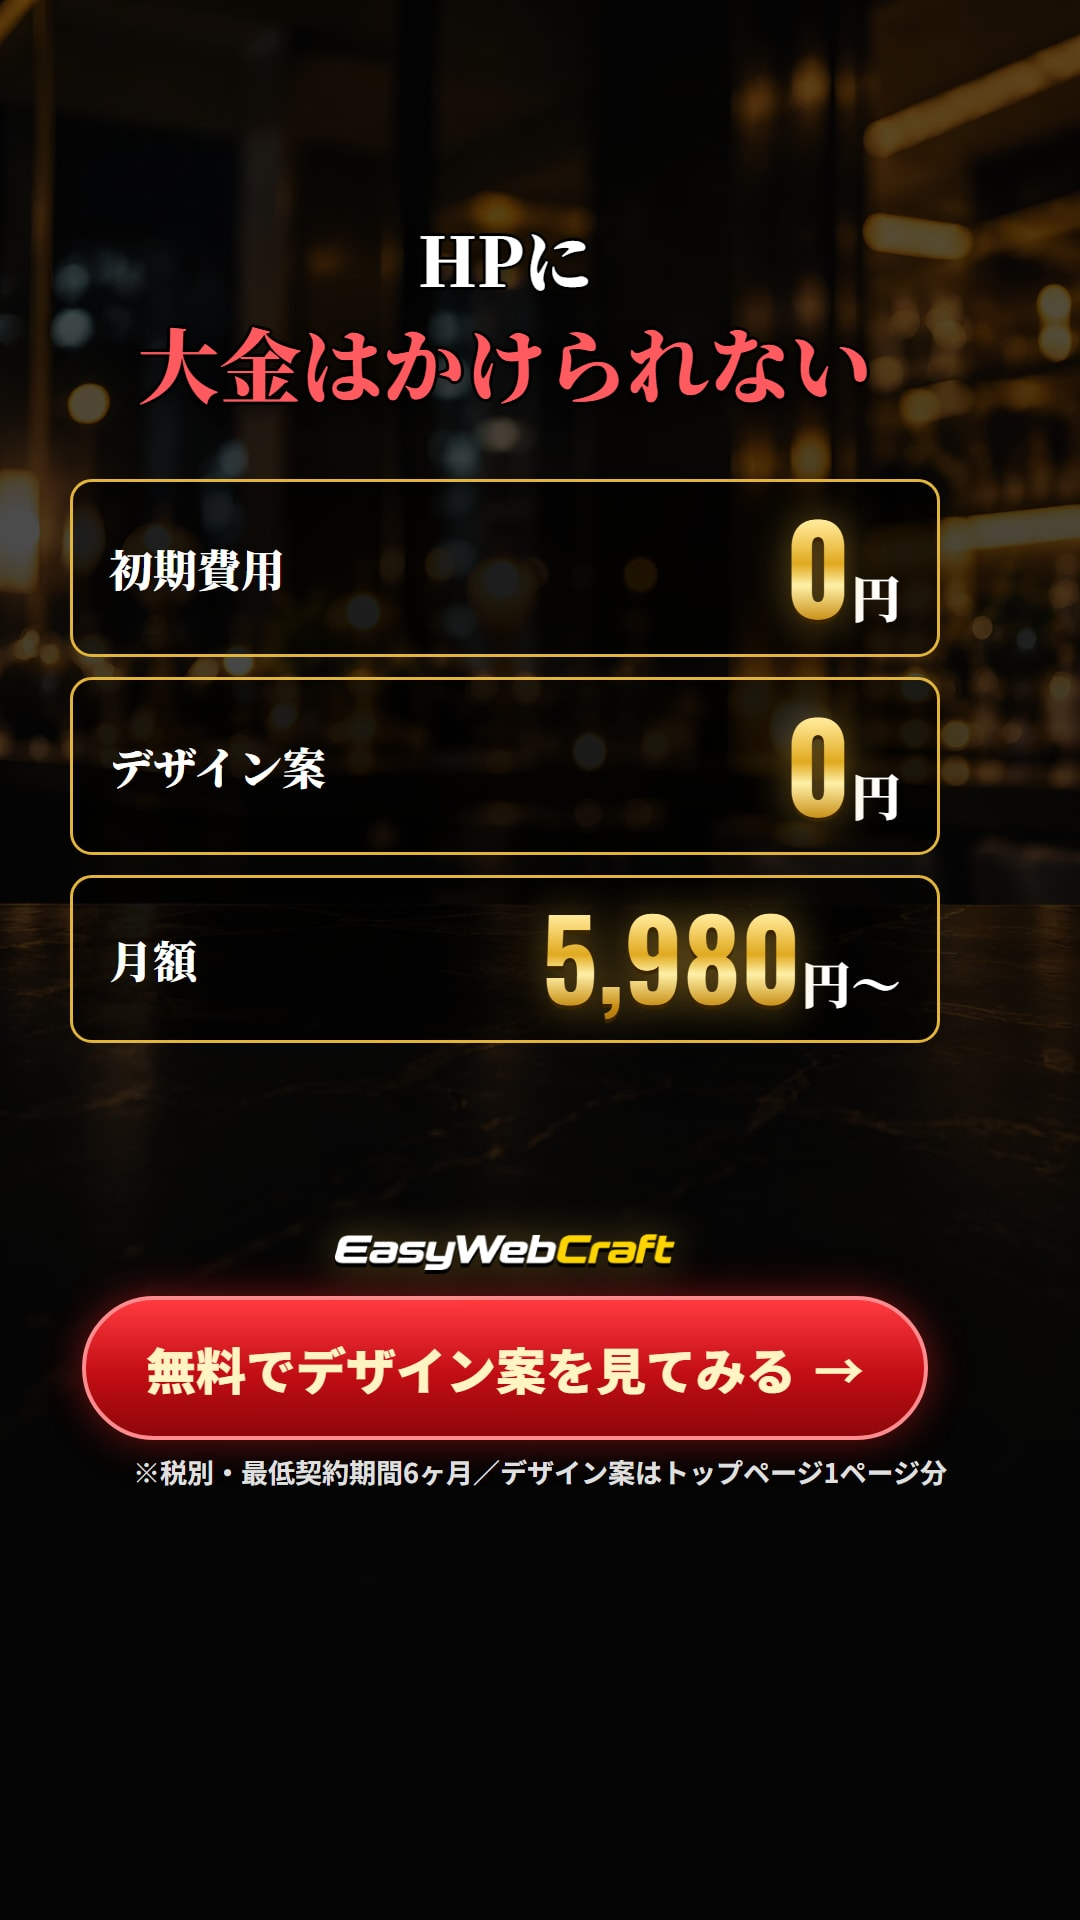
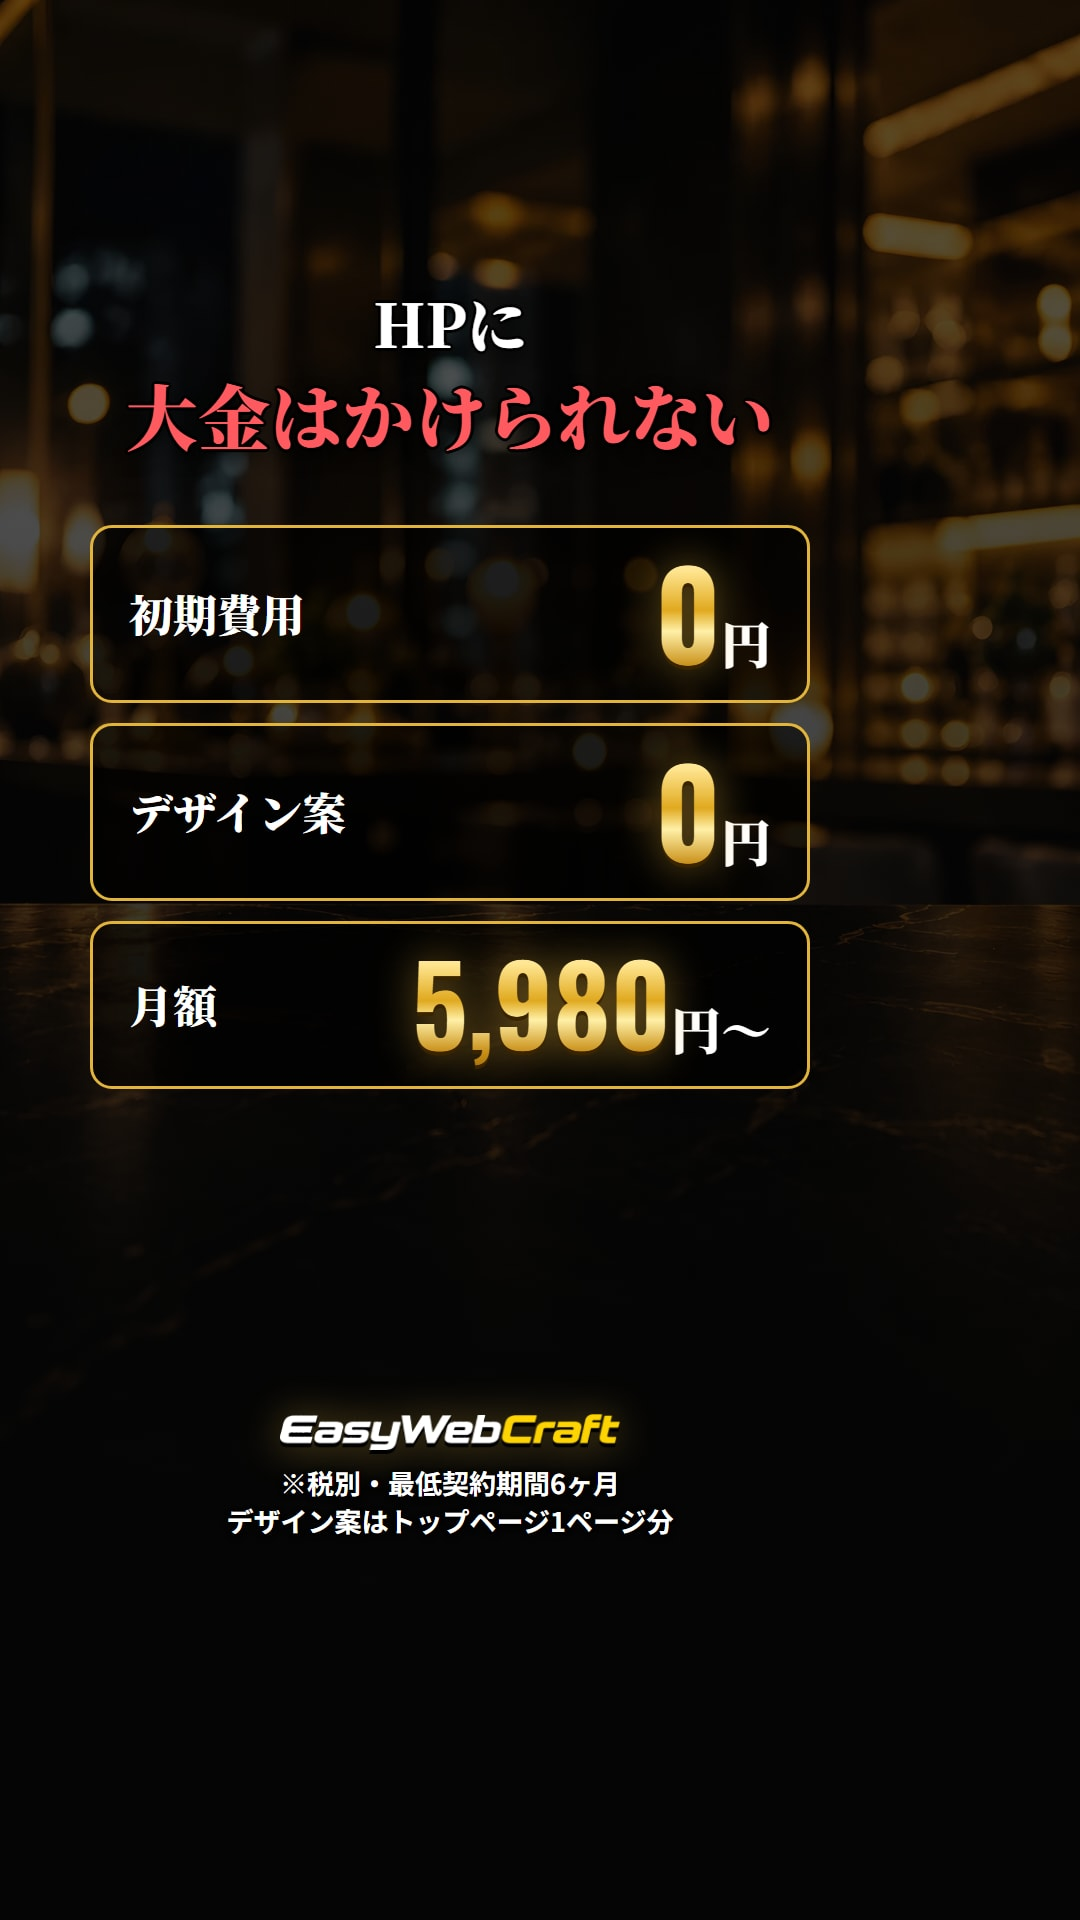
広告7案をTikTokの画面の安全範囲に収める（右のアイコン・下の広告文・上のタブを避ける、注記を読める位置へ、画像内の赤いボタンを外す）
Claude-Session: https://claude.ai/code/session_01G65TiHfa1BUco43NvNDLJF

diff --git a/challenge/index.html b/challenge/index.html
@@ -44,13 +44,13 @@ code{background:var(--bg); padding:0 5px; border-radius:4px; font-size:.88em; wo
 
   <p class="lead"><a href="tiktok-view.html" style="color:var(--gold); font-weight:800">▶ TikTokで見たときの表示イメージ</a></p>
   <div class="grid">
-    <div class="card"><img src="jpg/c1.jpg?v=9" alt="起業したばかりの経営者様へ ホームページ制作 月額5,980円〜"><div class="no"><b>C1</b>起業直後×価格</div><span class="tgt">起業したばかり</span><span class="star">顔出し</span><p class="cap">起業したばかりの経営者様へ。ホームページ制作が制作費0円・月額5,980円〜（税別）。</p></div>
-    <div class="card"><img src="jpg/c2.jpg?v=6" alt="こんなに安くて本当にちゃんとしたHPができるの？"><div class="no"><b>C2</b>安すぎて不安？</div><span class="tgt">価格に不安がある人</span><span class="star">主力候補</span><p class="cap">起業したばかりの方へ。こんなに安くて本当にちゃんとしたHPができるの？契約前に実物を見せます。HPデザイン案0円。</p></div>
-    <div class="card"><img src="jpg/c2b.jpg?v=8" alt="月額5,980円〜 安すぎて、ちょっと不安？"><div class="no"><b>C2-B</b>価格を先に見せる版</div><span class="tgt">価格に不安がある人</span><span class="star">C2とA/Bテスト</span><p class="cap">起業したばかりの方へ。制作費0円・月額5,980円〜。安すぎて、ちょっと不安？だから契約前に実物を見せます。HPデザイン案0円。</p></div>
-    <div class="card"><img src="jpg/c3.jpg?v=6" alt="起業した。でも、どこに頼めばいい？"><div class="no"><b>C3</b>どこに頼めばいい？</div><span class="tgt">依頼先で迷っている人</span><span class="star">新規</span><p class="cap">起業した。ホームページも必要。でも、どこに頼めばいい？制作会社？フリーランス？自分で？デザインを見てから決めてください。</p></div>
-    <div class="card"><img src="jpg/c4.jpg?v=5" alt="事業は決まった。でも、ホームページは何から始めればいい？"><div class="no"><b>C4</b>何から始めれば？</div><span class="tgt">HPの知識がない人</span><span class="star">顔出し</span><p class="cap">事業は決まった。でも、ホームページは何から始めればいい？何も決まってなくてOK。</p></div>
-    <div class="card"><img src="jpg/c5.jpg?v=5" alt="起業したばかり。やることだらけでHPまで手が回らない"><div class="no"><b>C5</b>手が回らない</div><span class="tgt">本業が忙しい人</span><span class="star">顔出し</span><p class="cap">起業したばかり。やることだらけでHPまで手が回らない。まとめてお任せください。</p></div>
-    <div class="card"><img src="jpg/c6.jpg?v=5" alt="起業したばかりだから、HPに大金はかけられない"><div class="no"><b>C6</b>安心3点セット</div><span class="tgt">比較検討中の人（リターゲティング向き）</span><p class="cap">HPに大金はかけられない。初期費用0円・デザイン案0円・月額5,980円〜（税別）。</p></div>
+    <div class="card"><img src="jpg/c1.jpg?v=10" alt="起業したばかりの経営者様へ ホームページ制作 月額5,980円〜"><div class="no"><b>C1</b>起業直後×価格</div><span class="tgt">起業したばかり</span><span class="star">顔出し</span><p class="cap">起業したばかりの経営者様へ。ホームページ制作が制作費0円・月額5,980円〜（税別）。</p></div>
+    <div class="card"><img src="jpg/c2.jpg?v=10" alt="こんなに安くて本当にちゃんとしたHPができるの？"><div class="no"><b>C2</b>安すぎて不安？</div><span class="tgt">価格に不安がある人</span><span class="star">主力候補</span><p class="cap">起業したばかりの方へ。こんなに安くて本当にちゃんとしたHPができるの？契約前に実物を見せます。HPデザイン案0円。</p></div>
+    <div class="card"><img src="jpg/c2b.jpg?v=10" alt="月額5,980円〜 安すぎて、ちょっと不安？"><div class="no"><b>C2-B</b>価格を先に見せる版</div><span class="tgt">価格に不安がある人</span><span class="star">C2とA/Bテスト</span><p class="cap">起業したばかりの方へ。制作費0円・月額5,980円〜。安すぎて、ちょっと不安？だから契約前に実物を見せます。HPデザイン案0円。</p></div>
+    <div class="card"><img src="jpg/c3.jpg?v=10" alt="起業した。でも、どこに頼めばいい？"><div class="no"><b>C3</b>どこに頼めばいい？</div><span class="tgt">依頼先で迷っている人</span><span class="star">新規</span><p class="cap">起業した。ホームページも必要。でも、どこに頼めばいい？制作会社？フリーランス？自分で？デザインを見てから決めてください。</p></div>
+    <div class="card"><img src="jpg/c4.jpg?v=10" alt="事業は決まった。でも、ホームページは何から始めればいい？"><div class="no"><b>C4</b>何から始めれば？</div><span class="tgt">HPの知識がない人</span><span class="star">顔出し</span><p class="cap">事業は決まった。でも、ホームページは何から始めればいい？何も決まってなくてOK。</p></div>
+    <div class="card"><img src="jpg/c5.jpg?v=10" alt="起業したばかり。やることだらけでHPまで手が回らない"><div class="no"><b>C5</b>手が回らない</div><span class="tgt">本業が忙しい人</span><span class="star">顔出し</span><p class="cap">起業したばかり。やることだらけでHPまで手が回らない。まとめてお任せください。</p></div>
+    <div class="card"><img src="jpg/c6.jpg?v=10" alt="起業したばかりだから、HPに大金はかけられない"><div class="no"><b>C6</b>安心3点セット</div><span class="tgt">比較検討中の人（リターゲティング向き）</span><p class="cap">HPに大金はかけられない。初期費用0円・デザイン案0円・月額5,980円〜（税別）。</p></div>
   </div>
 
   <div class="box">

diff --git a/challenge/ads.html b/challenge/ads.html
@@ -135,6 +135,47 @@ body{width:1080px; font-family:"Noto Sans JP",sans-serif; color:#fff; background
 .ad.fvimg::before{background:url('img/ch-sp.webp') center 150px/1080px auto no-repeat,#050505; opacity:1}
 .ad.fvimg::after{background:linear-gradient(180deg,#050505 0%,#050505 7%,rgba(5,5,5,0) 13%,rgba(5,5,5,0) 50%,rgba(5,5,5,.6) 60%,rgba(5,5,5,.85) 75%,#050505 100%)}
 #c1 .in{top:40px}
+
+/* ===== TikTokの画面に合わせた安全範囲（2026-09-30） =====
+   上：タブ（約y150まで）／右：アイコン列（x860より右・y880〜1560）／下：広告文と「詳しくはこちら」（y1560より下）
+   を避ける。中身は x80〜850・y240〜1450、注記は y1460〜1540 に収める。画像内の赤いボタンはTikTokのボタンと二重になるので出さない */
+.in{left:80px !important; right:230px !important; top:240px; bottom:470px !important}
+.cta{display:none !important}
+.blogo{margin-bottom:0 !important}
+.fine{top:auto !important; bottom:380px !important; left:80px !important; right:230px !important; font-size:30px !important; line-height:1.4 !important; color:#fff !important; text-shadow:0 2px 6px #000,0 0 3px #000}
+.face .in{top:600px !important}
+#c5 .in{top:700px !important}
+#c1 .in{top:240px !important}
+.ad.fvimg::before{background:url('img/ch-sp.webp') 36% 330px/1180px auto no-repeat,#050505 !important}
+.ad.fvimg::after{background:linear-gradient(180deg,#050505 0%,#050505 15%,rgba(5,5,5,0) 20%,rgba(5,5,5,0) 55%,rgba(5,5,5,.6) 64%,rgba(5,5,5,.9) 78%,#050505 100%) !important}
+
+.fine{font-size:27px !important}
+.ad.fvimg::before{background:url('img/ch-sp.webp') center 320px/980px auto no-repeat,#050505 !important}
+#c1 .in > div[style*="height:900px"]{height:760px !important}
+#c3 .serif.red{font-size:66px !important}
+#c4 .in p.serif.outline:last-of-type{font-size:60px !important}
+#c2b .zero{font-size:42px !important} #c2b .zero .n{font-size:74px !important}
+#c2b .price .n{font-size:140px !important}
+#c2b .q{font-size:56px !important; padding:8px 30px !important}
+#c2b .serif.gold{font-size:56px !important}
+#c2b .offer .p b{font-size:120px !important}
+#c2b .blogo{margin-top:10px !important}
+
+/* 右のアイコン列をもう少し避ける（表示イメージで確認 2026-09-30） */
+.in{left:90px !important; right:270px !important}
+.fine{left:90px !important; right:270px !important}
+#c4 .serif.gold{font-size:68px !important}
+#c5 .serif.gold{font-size:60px !important}
+#c5 .serif.outline{font-size:58px !important}
+#c3 .serif.red{font-size:58px !important}
+#c3 .chips span{font-size:32px !important; padding:8px 16px !important}
+#c3 .serif.gold{font-size:66px !important}
+#c2 .serif.gold{font-size:58px !important}
+#c2 .q{font-size:62px !important}
+#c6 .serif.outline{font-size:60px !important}
+#c1 .price .n{font-size:150px !important}
+#c1 .fine,#c2b .fine{font-size:24px !important}
+#c2b .in{bottom:500px !important}
 </style>
 </head>
 <body>
@@ -191,7 +232,7 @@ body{width:1080px; font-family:"Noto Sans JP",sans-serif; color:#fff; background
     <img class="logo blogo" src="img/logo-fv.webp" alt="EasyWebCraft">
     <p class="cta">無料でデザイン案を見てみる</p>
   </div>
-  <p class="fine">※制作費は月額料金に含まれます。税別・最低契約期間6ヶ月<br>無料のデザイン案はトップページ1ページ分</p>
+  <p class="fine">※制作費は月額料金に含みます。税別・最低契約期間6ヶ月<br>無料のデザイン案はトップページ1ページ分</p>
 </section>
 
 <!-- C3 検索されても出てこない → 他社へ -->
@@ -223,7 +264,7 @@ body{width:1080px; font-family:"Noto Sans JP",sans-serif; color:#fff; background
     <div class="g40"></div>
     <div class="arrow"></div>
     <div class="g40"></div>
-    <p class="serif outline" style="font-size:72px; line-height:1.35">何も決まってなくて<span class="gold" style="font-size:1.3em">OK</span></p>
+    <p class="serif outline" style="font-size:56px; line-height:1.35">何も決まってなくて<span class="gold" style="font-size:1.3em">OK</span></p>
     <div class="sp"></div>
     <img class="logo blogo" src="img/logo-fv.webp" alt="EasyWebCraft">
     <p class="cta">無料でデザイン案を見てみる</p>
@@ -262,7 +303,7 @@ body{width:1080px; font-family:"Noto Sans JP",sans-serif; color:#fff; background
     <img class="logo blogo" src="img/logo-fv.webp" alt="EasyWebCraft">
     <p class="cta">無料でデザイン案を見てみる</p>
   </div>
-  <p class="fine">※税別・最低契約期間6ヶ月／デザイン案はトップページ1ページ分</p>
+  <p class="fine">※税別・最低契約期間6ヶ月<br>デザイン案はトップページ1ページ分</p>
 </section>
 
 </body>

diff --git a/challenge/tiktok-view.html b/challenge/tiktok-view.html
@@ -35,7 +35,7 @@ figcaption b{display:inline-block; background:#e3b43a; color:#1a1200; border-rad
 <div class="grid">
 <figure class="ph">
   <div class="scr">
-    <img class="cr" src="jpg/c1.jpg" alt="起業直後×価格">
+    <img class="cr" src="jpg/c1.jpg?v=10" alt="起業直後×価格">
     <div class="top"><span>フォロー中</span><b>おすすめ</b><i>⌕</i></div>
     <div class="rail">
       <div class="av"><img src="img/logo-fv.webp" alt=""><em>＋</em></div>
@@ -56,7 +56,7 @@ figcaption b{display:inline-block; background:#e3b43a; color:#1a1200; border-rad
 </figure>
 <figure class="ph">
   <div class="scr">
-    <img class="cr" src="jpg/c2.jpg" alt="安すぎて不安？">
+    <img class="cr" src="jpg/c2.jpg?v=10" alt="安すぎて不安？">
     <div class="top"><span>フォロー中</span><b>おすすめ</b><i>⌕</i></div>
     <div class="rail">
       <div class="av"><img src="img/logo-fv.webp" alt=""><em>＋</em></div>
@@ -77,7 +77,7 @@ figcaption b{display:inline-block; background:#e3b43a; color:#1a1200; border-rad
 </figure>
 <figure class="ph">
   <div class="scr">
-    <img class="cr" src="jpg/c2b.jpg" alt="価格を先に見せる版">
+    <img class="cr" src="jpg/c2b.jpg?v=10" alt="価格を先に見せる版">
     <div class="top"><span>フォロー中</span><b>おすすめ</b><i>⌕</i></div>
     <div class="rail">
       <div class="av"><img src="img/logo-fv.webp" alt=""><em>＋</em></div>
@@ -98,7 +98,7 @@ figcaption b{display:inline-block; background:#e3b43a; color:#1a1200; border-rad
 </figure>
 <figure class="ph">
   <div class="scr">
-    <img class="cr" src="jpg/c3.jpg" alt="どこに頼めばいい？">
+    <img class="cr" src="jpg/c3.jpg?v=10" alt="どこに頼めばいい？">
     <div class="top"><span>フォロー中</span><b>おすすめ</b><i>⌕</i></div>
     <div class="rail">
       <div class="av"><img src="img/logo-fv.webp" alt=""><em>＋</em></div>
@@ -119,7 +119,7 @@ figcaption b{display:inline-block; background:#e3b43a; color:#1a1200; border-rad
 </figure>
 <figure class="ph">
   <div class="scr">
-    <img class="cr" src="jpg/c4.jpg" alt="何から始めれば？">
+    <img class="cr" src="jpg/c4.jpg?v=10" alt="何から始めれば？">
     <div class="top"><span>フォロー中</span><b>おすすめ</b><i>⌕</i></div>
     <div class="rail">
       <div class="av"><img src="img/logo-fv.webp" alt=""><em>＋</em></div>
@@ -140,7 +140,7 @@ figcaption b{display:inline-block; background:#e3b43a; color:#1a1200; border-rad
 </figure>
 <figure class="ph">
   <div class="scr">
-    <img class="cr" src="jpg/c5.jpg" alt="手が回らない">
+    <img class="cr" src="jpg/c5.jpg?v=10" alt="手が回らない">
     <div class="top"><span>フォロー中</span><b>おすすめ</b><i>⌕</i></div>
     <div class="rail">
       <div class="av"><img src="img/logo-fv.webp" alt=""><em>＋</em></div>
@@ -161,7 +161,7 @@ figcaption b{display:inline-block; background:#e3b43a; color:#1a1200; border-rad
 </figure>
 <figure class="ph">
   <div class="scr">
-    <img class="cr" src="jpg/c6.jpg" alt="安心3点セット">
+    <img class="cr" src="jpg/c6.jpg?v=10" alt="安心3点セット">
     <div class="top"><span>フォロー中</span><b>おすすめ</b><i>⌕</i></div>
     <div class="rail">
       <div class="av"><img src="img/logo-fv.webp" alt=""><em>＋</em></div>
